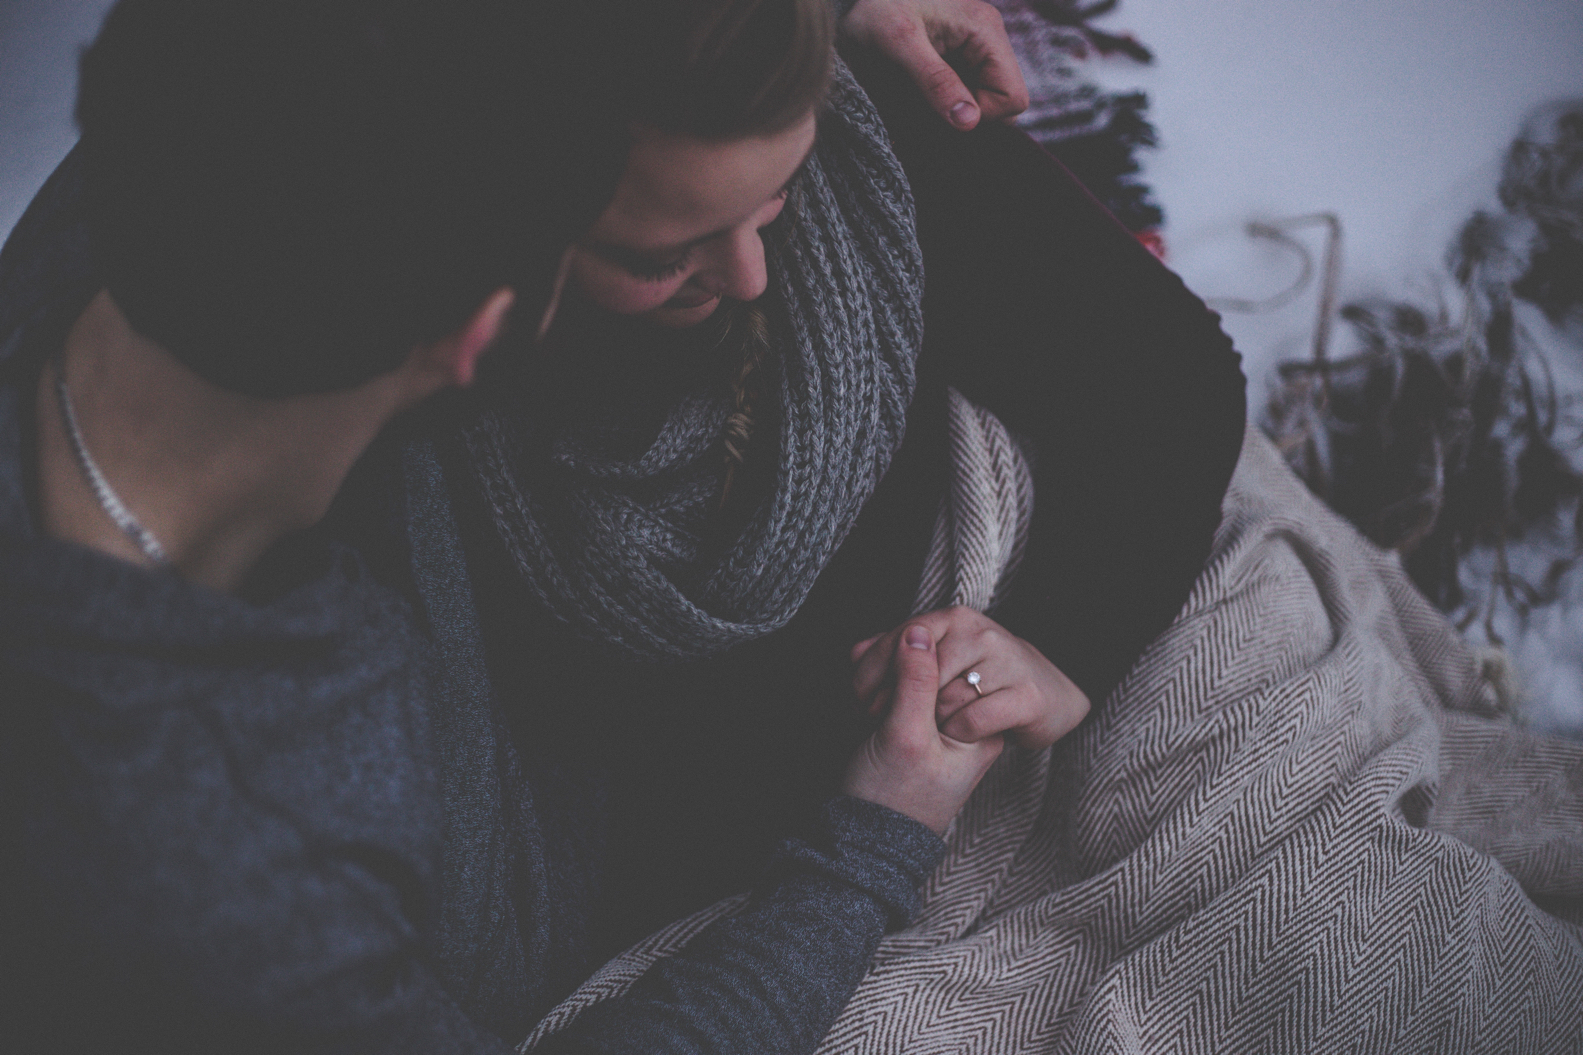
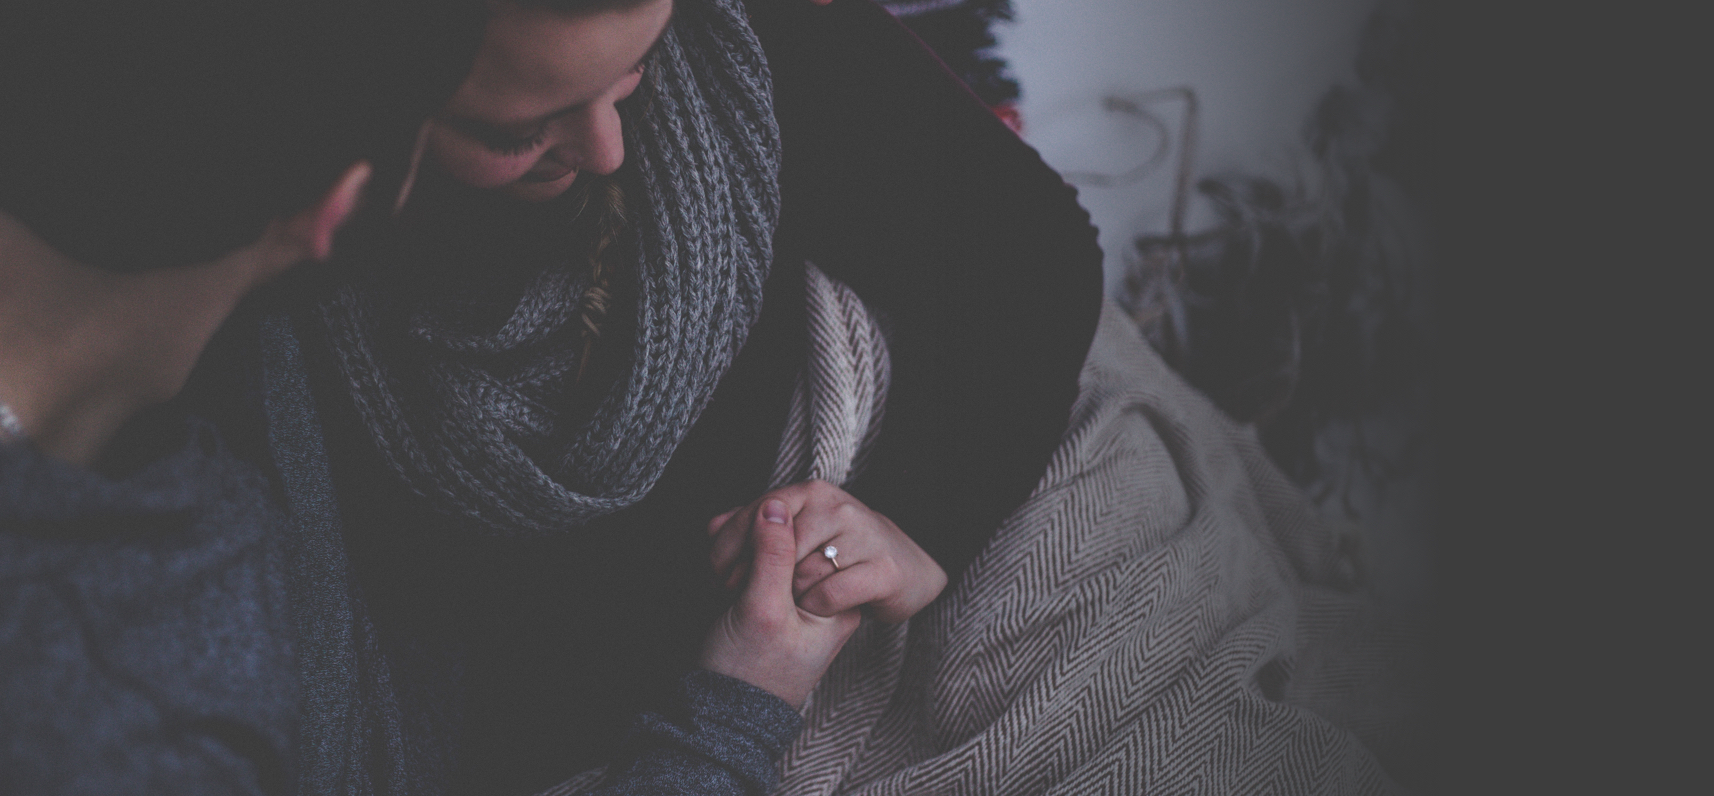
Markup restructured

diff --git a/lamour.html b/lamour.html
@@ -2,71 +2,55 @@
 <html class="no-js" lang="">
   <head>
     <meta charset="utf-8" />
-    <link href="https://fonts.googleapis.com/css?family=Open+Sans" rel="stylesheet">
-    <link href="https://fonts.googleapis.com/css?family=Open+Sans|Roboto" rel="stylesheet">
-    <style>
-    .logo{
-      position: relative;
-      left: 100px;
-      top: 80px;
-    }
-    .top {
-      font-family: 'Open Sans', sans-serif;
-      padding: 150px 100px;
-      color: white;
-    }
-    h1{
-      font-size: 350%;
-    }
-    .right{
-      right: -650px;
-      top: -190px;
-      position: fixed;
-      transform: rotate(-27deg);
-    }
-    .second-line{
-      color: red;
-      font-family: 'Roboto', sans-serif;
-      font-size: 180%;
-    }
-    .button{
-    font-family: 'Open Sans', sans-serif;
-    border: 1px solid #ff0000;
-    background-color: #ff0000;
-    padding: 18px 18px 18px 18px;
-    border-radius: 30px;
-    display: inline-block;
-    margin: 15px 15px 15px 0;
-    }
-    div.screen{
-      position: fixed;
-      bottom: 8px;
-      right: 200px;
-    }
-    </style>
+    <meta name="description" content="Lamour">
+    <meta name="keywords" content="love, match, love calculator, partner">
+    <meta name="author" content="Lamour">
+    <link rel="stylesheet" type="text/css" href="https://cdnjs.cloudflare.com/ajax/libs/IBM-type/0.5.3/css/ibm-type.min.css">
+    <link rel="stylesheet" type="text/css" href="styles.css">
   </head>
-  <body background = "bg.jpg" style='position:fixed; background-size: 1200px;'>
+
+  <body>
+
+  <div class="container">
     <div class="logo">
-      <img src = "logo.svg">
+      <a href="/"><img src="logo.svg"></a>
     </div>
+
     <div class = "main">
-    <div class = "top">
-        <h1>  Are you in search </br>of true love? </h1>
-        <div class="right">
-      <img src="rectangle.svg">
+      <div class = "top">
+        <h1>  Are you in search </br>of true <span>love? </span></h1>
+
+        <div class ="second-line">
+          Find it out with L'amour
+        </div>
+        </br>
+        <div class = "button">
+          DOWNLOAD APP
+        </div>
+        <img src = "mobile_bg.png" class="mobile">
+
+      </div>
+
+
+
+
+
     </div>
-    <div class ="second-line">
-      Find it out with L'amour
-    </div>
-  </br>
-    <div class = "button"><font size = "2">
-      DOWNLOAD APP
-    </div>
+
   </div>
-  <div class = "screen">
-    <img src = "mobile.png" style="width:310px;height:550px;">
-  </div>
-</div>
+
+
+
+  <style>
+    .container{
+      width: 1020px;
+      margin: 0 auto;
+    }
+  </style>
+
+
 
   </body>
+
+
   </html>

diff --git a/styles.css b/styles.css
@@ -1,0 +1,110 @@
+html, body, div, span, applet, object, iframe,
+h1, h2, h3, h4, h5, h6, p, blockquote, pre,
+a, abbr, acronym, address, big, cite, code,
+del, dfn, em, img, ins, kbd, q, s, samp,
+small, strike, strong, sub, sup, tt, var,
+b, u, i, center,
+dl, dt, dd, ol, ul, li,
+fieldset, form, label, legend,
+table, caption, tbody, tfoot, thead, tr, th, td,
+article, aside, canvas, details, embed,
+figure, figcaption, footer, header, hgroup,
+menu, nav, output, ruby, section, summary,
+time, mark, audio, video {
+    margin: 0;
+    padding: 0;
+    border: 0;
+    font-size: 100%;
+    font: inherit;
+    vertical-align: baseline;
+}
+/* HTML5 display-role reset for older browsers */
+article, aside, details, figcaption, figure,
+footer, header, hgroup, menu, nav, section {
+    display: block;
+}
+body {
+    line-height: 1;
+}
+ol, ul {
+    list-style: none;
+}
+blockquote, q {
+    quotes: none;
+}
+blockquote:before, blockquote:after,
+q:before, q:after {
+    content: '';
+    content: none;
+}
+table {
+    border-collapse: collapse;
+    border-spacing: 0;
+}
+
+
+
+body{
+    font-family: IBM Plex Sans;
+    background: #3A3A3A url(bg.jpg) no-repeat fixed;
+    overflow: hidden;
+}
+
+.logo{
+    position: relative;
+    margin-left: 9px;
+    top: 80px;
+    z-index: 999;
+}
+
+.logo img{
+    width: 140px;
+}
+.top {
+    font-family:inherit;
+    color: white;
+    position: relative;
+    padding-top: 180px;
+
+}
+h1{
+    font-size: 70px;
+    font-weight: 300;
+    line-height: 1.2em;
+}
+
+h1 span{
+    font-weight: 500;
+}
+.right{
+    right: -650px;
+    top: -190px;
+    position: fixed;
+    transform: rotate(-27deg);
+}
+.second-line{
+    margin-top: 18px;
+    margin-left: 5px;
+    font-family: IBMPlexMono;
+    font-size: 25px;
+    color: #FF3E48;
+    letter-spacing: 0;
+    text-shadow: 0 2px 4px rgba(58,58,58,0.50);
+}
+.button{
+    background-image: linear-gradient(-199deg, #F05746 0%, #EC1233 100%);
+    box-shadow: 0 7px 14px 0 #353434;
+    border-radius: 100px;
+    display: inline-block;
+    padding: 16px 43px;
+    letter-spacing: 2px;
+    font-weight: 500;
+    font-size: 14px;
+    margin-top: 30px;
+}
+.mobile{
+    position: absolute;
+    width: 1234px;
+    top: -350px;
+    left: 650px;
+}
